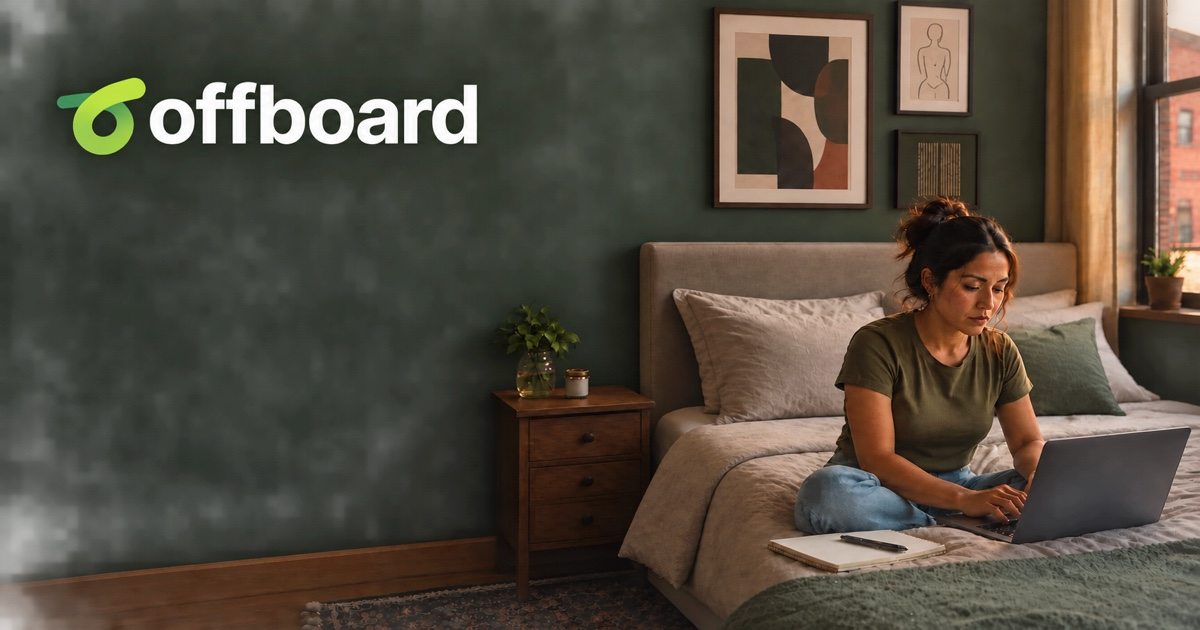
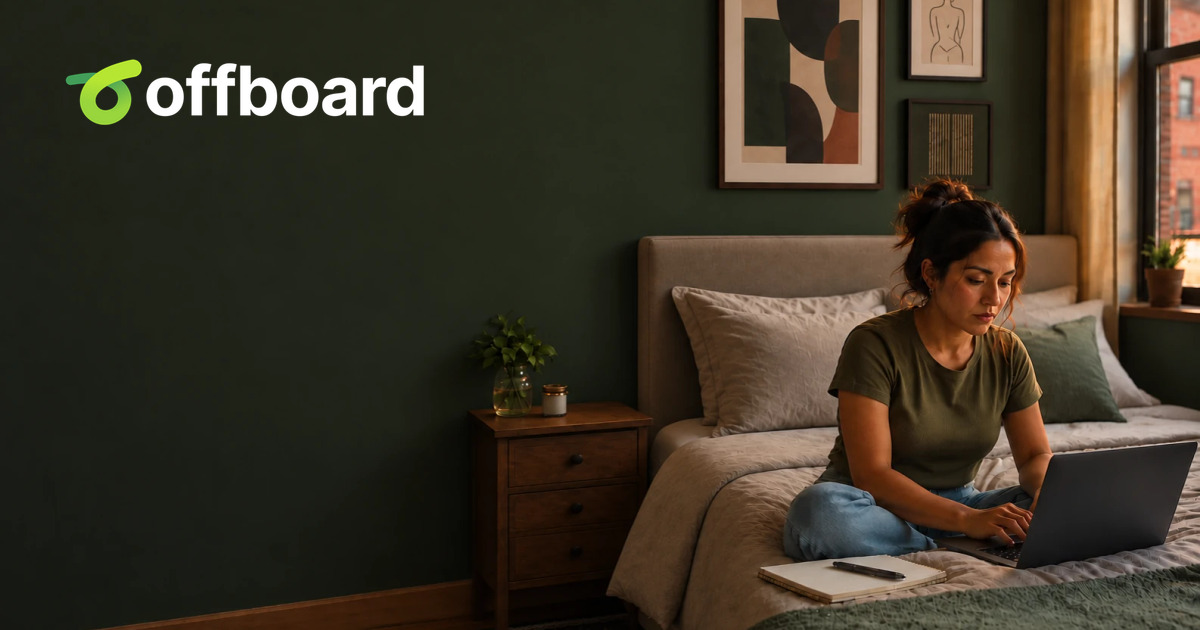
Refine social image and title taxonomy

diff --git a/e2e/homepage.spec.ts b/e2e/homepage.spec.ts
@@ -743,23 +743,36 @@ test("every route's canonical points at its own address on the real domain", asy
   expect(wrong).toEqual([]);
 });
 
-// Social cards reuse the page's actual browser title and description rather
-// than the homepage fallback. Keeping this loop beside the canonical sweep
-// makes every public route prove its complete share-card contract.
-test("every route's social card matches that page's title and description", async ({ page }) => {
-  const ROUTES = [
-    "/", "/about", "/act", "/career-context", "/communities", "/companies",
-    "/employers", "/how-it-works", "/integrations", "/intake",
-    "/intake/confirmed", "/application-packet", "/layoff-support", "/lumo", "/pricing",
-    "/privacy-security", "/resources", "/workforce",
-    "/companies/airtable",
-    "/resources/first-week-after-a-layoff",
-  ];
+// Social cards use a scannable parent | page title while keeping the route's
+// real description. Keeping this map beside the canonical sweep makes every
+// public route prove its complete share-card contract and taxonomy.
+test("every route's social card uses its parent category and page-specific copy", async ({ page }) => {
+  const ROUTES: Record<string, string> = {
+    "/": "Offboard | The Modern Unemployment Office",
+    "/about": "Company | Why Offboard Exists",
+    "/act": "Programs | ACT Pilot",
+    "/application-packet": "Product | Application Packet",
+    "/career-context": "Product | Career Context",
+    "/communities": "Partners | Universities & Communities",
+    "/companies": "Layoff Support | Company Transition Centers",
+    "/companies/airtable": "Company Transition Center | Airtable",
+    "/employers": "Partners | Employers",
+    "/how-it-works": "Product | How Offboard Works",
+    "/intake": "Support | Talk to a Person",
+    "/intake/confirmed": "Support | Intake Received",
+    "/integrations": "Product | Integrations",
+    "/layoff-support": "Layoff Support | Benefits, Coverage & Runway",
+    "/lumo": "Product | Lumo",
+    "/pricing": "Product | Pricing",
+    "/privacy-security": "Company | Privacy & Security",
+    "/resources": "Resources | Guides",
+    "/resources/first-week-after-a-layoff": "Resources | What to do in your first week after a layoff",
+    "/workforce": "Partners | Workforce & Government",
+  };
 
   const wrong: string[] = [];
-  for (const route of ROUTES) {
+  for (const [route, expectedTitle] of Object.entries(ROUTES)) {
     await page.goto(route);
-    const title = await page.title();
     const description = await page.locator('meta[name="description"]').getAttribute("content");
     const social = await page.locator("head").evaluate(() => ({
       ogTitle: document.querySelector<HTMLMetaElement>('meta[property="og:title"]')?.content,
@@ -770,9 +783,9 @@ test("every route's social card matches that page's title and description", asyn
       twitterImage: document.querySelector<HTMLMetaElement>('meta[name="twitter:image"]')?.content,
     }));
 
-    if (social.ogTitle !== title) wrong.push(`${route}: Open Graph title does not match the page title`);
+    if (social.ogTitle !== expectedTitle) wrong.push(`${route}: Open Graph title is ${social.ogTitle ?? "missing"}`);
     if (social.ogDescription !== description) wrong.push(`${route}: Open Graph description does not match the page description`);
-    if (social.twitterTitle !== title) wrong.push(`${route}: Twitter title does not match the page title`);
+    if (social.twitterTitle !== expectedTitle) wrong.push(`${route}: Twitter title is ${social.twitterTitle ?? "missing"}`);
     if (social.twitterDescription !== description) wrong.push(`${route}: Twitter description does not match the page description`);
     if (!social.ogImage?.endsWith("/marketing/social/offboard-social-card.jpg")) {
       wrong.push(`${route}: Open Graph image is ${social.ogImage ?? "missing"}`);

diff --git a/src/lib/metadata.test.ts b/src/lib/metadata.test.ts
@@ -3,11 +3,12 @@ import { describe, expect, it } from "vitest";
 import { marketingMetadata, SOCIAL_IMAGE } from "./metadata";
 
 describe("marketingMetadata", () => {
-  it("keeps browser, Open Graph, and Twitter copy synchronized", () => {
+  it("keeps descriptions synchronized while giving social cards their own taxonomy title", () => {
     const metadata = marketingMetadata({
       path: "/pricing",
       title: "Pricing | Offboard",
       description: "Start free. Upgrade when you need more support.",
+      socialTitle: { parent: "Product", page: "Pricing" },
     });
 
     expect(metadata.title).toBe("Pricing | Offboard");
@@ -17,13 +18,13 @@ describe("marketingMetadata", () => {
       type: "website",
       siteName: "Offboard",
       url: "/pricing",
-      title: metadata.title,
+      title: "Product | Pricing",
       description: metadata.description,
       images: [SOCIAL_IMAGE],
     });
     expect(metadata.twitter).toMatchObject({
       card: "summary_large_image",
-      title: metadata.title,
+      title: "Product | Pricing",
       description: metadata.description,
       images: [{ url: SOCIAL_IMAGE.url, alt: SOCIAL_IMAGE.alt }],
     });
@@ -35,6 +36,7 @@ describe("marketingMetadata", () => {
       path: "/resources/example",
       title: "Example | Offboard",
       description: "Example description.",
+      socialTitle: { parent: "Resources", page: "Example" },
       type: "article",
       robots,
     });

diff --git a/src/lib/metadata.ts b/src/lib/metadata.ts
@@ -11,6 +11,10 @@ type MarketingMetadataInput = {
   path: string;
   title: string;
   description: string;
+  socialTitle: {
+    parent: string;
+    page: string;
+  };
   robots?: Metadata["robots"];
   type?: "website" | "article";
 };
@@ -20,9 +24,12 @@ export function marketingMetadata({
   path,
   title,
   description,
+  socialTitle,
   robots,
   type = "website",
 }: MarketingMetadataInput): Metadata {
+  const cardTitle = `${socialTitle.parent} | ${socialTitle.page}`;
+
   return {
     alternates: { canonical: path },
     title,
@@ -32,13 +39,13 @@ export function marketingMetadata({
       type,
       siteName: "Offboard",
       url: path,
-      title,
+      title: cardTitle,
       description,
       images: [SOCIAL_IMAGE],
     },
     twitter: {
       card: "summary_large_image",
-      title,
+      title: cardTitle,
       description,
       images: [{ url: SOCIAL_IMAGE.url, alt: SOCIAL_IMAGE.alt }],
     },

diff --git a/src/app/companies/[slug]/page.tsx b/src/app/companies/[slug]/page.tsx
@@ -24,6 +24,7 @@ export async function generateMetadata({ params }: { params: Promise<{ slug: str
       title: "Company Transition Centers | Offboard",
       description:
         "One page per company that has just had a layoff, built from the public record: what happened, with a source next to every figure, what to do this week, and what your state owes you.",
+      socialTitle: { parent: "Layoff Support", page: "Company Transition Centers" },
       robots: DEFERRED_ROBOTS,
     });
   }
@@ -31,6 +32,7 @@ export async function generateMetadata({ params }: { params: Promise<{ slug: str
     path: `/companies/${slug}`,
     title: `Laid off from ${company.name}? Start here | Offboard`,
     description: company.summary,
+    socialTitle: { parent: "Company Transition Center", page: company.name },
     robots: DEFERRED_ROBOTS,
   });
 }

diff --git a/src/app/resources/[slug]/page.tsx b/src/app/resources/[slug]/page.tsx
@@ -27,12 +27,14 @@ export async function generateMetadata({
       path: "/resources",
       title: "Guides & resources | Offboard",
       description: "Reported essays, practical guides, and the slow work of making layoffs less brutal.",
+      socialTitle: { parent: "Resources", page: "Guides" },
     });
   }
   return marketingMetadata({
     path: `/resources/${lookup.post.slug}`,
     title: `${lookup.post.title} | Offboard`,
     description: lookup.post.excerpt,
+    socialTitle: { parent: "Resources", page: lookup.post.title },
     type: "article",
     /* The article's own slug, not the requested one: a retired slug 308s to
        /resources, so only a rendering page reaches here. */

diff --git a/src/app/how-it-works/page.tsx b/src/app/how-it-works/page.tsx
@@ -6,6 +6,7 @@ export const metadata = marketingMetadata({
   path: "/how-it-works",
   title: "How Offboard works | Four steps after a layoff",
   description: "Build your Career Context, talk it through with Lumo, run your search with real tools, and follow your layoff plan. Verified facts, one record, no starting over.",
+  socialTitle: { parent: "Product", page: "How Offboard Works" },
   // Deferred (plan 045, owner 2026-09-07). Remove this line to un-defer.
   robots: DEFERRED_ROBOTS,
 });

diff --git a/src/app/companies/page.tsx b/src/app/companies/page.tsx
@@ -7,6 +7,7 @@ export const metadata = marketingMetadata({
   title: "Company Transition Centers | Offboard",
   description:
     "One page per company that has just had a layoff, built from the public record: what happened, with a source next to every figure, what to do this week, and what your state owes you.",
+  socialTitle: { parent: "Layoff Support", page: "Company Transition Centers" },
   // Deferred at launch (plan 043). Remove this line to un-defer.
   robots: DEFERRED_ROBOTS,
 });

diff --git a/src/app/communities/page.tsx b/src/app/communities/page.tsx
@@ -7,6 +7,7 @@ export const metadata = marketingMetadata({
   title: "Universities & Communities | Offboard",
   description:
     "For universities, alumni organizations, associations, and nonprofits: sponsor Offboard so your members keep a career record that outlasts a single workshop, appointment, or program year.",
+  socialTitle: { parent: "Partners", page: "Universities & Communities" },
   // Deferred at launch (plan 043). Remove this line to un-defer.
   robots: DEFERRED_ROBOTS,
 });

diff --git a/src/app/workforce/page.tsx b/src/app/workforce/page.tsx
@@ -7,6 +7,7 @@ export const metadata = marketingMetadata({
   title: "Workforce & Government | Offboard",
   description:
     "Offboard helps workforce boards, counties, and public programs organize transition work around official systems while agencies keep every eligibility decision.",
+  socialTitle: { parent: "Partners", page: "Workforce & Government" },
   // Deferred at launch (plan 043). Remove this line to un-defer.
   robots: DEFERRED_ROBOTS,
 });

diff --git a/src/app/integrations/page.tsx b/src/app/integrations/page.tsx
@@ -5,6 +5,7 @@ export const metadata = marketingMetadata({
   path: "/integrations",
   title: "Integrations | Use Offboard from the AI you already use",
   description: "Connect Offboard to ChatGPT, Claude, and the tools you already use. Save roles, update applications, and build your Career Context from any conversation.",
+  socialTitle: { parent: "Product", page: "Integrations" },
 });
 
 export default function Page() {

diff --git a/src/app/layoff-support/page.tsx b/src/app/layoff-support/page.tsx
@@ -5,6 +5,7 @@ export const metadata = marketingMetadata({
   path: "/layoff-support",
   title: "Layoff & Benefits | Offboard",
   description: "A layoff is not only a job search. Offboard helps with what to do first, what support you may qualify for, health coverage, and how long your money lasts.",
+  socialTitle: { parent: "Layoff Support", page: "Benefits, Coverage & Runway" },
 });
 
 export default function Page() {

diff --git a/src/app/lumo/page.tsx b/src/app/lumo/page.tsx
@@ -5,6 +5,7 @@ export const metadata = marketingMetadata({
   path: "/lumo",
   title: "Lumo | The AI that already understands your career",
   description: "Lumo is Offboard's AI assistant. It starts every conversation from your Career Context, your applications, and your plan, so you never explain yourself first.",
+  socialTitle: { parent: "Product", page: "Lumo" },
 });
 
 export default function Page() {
